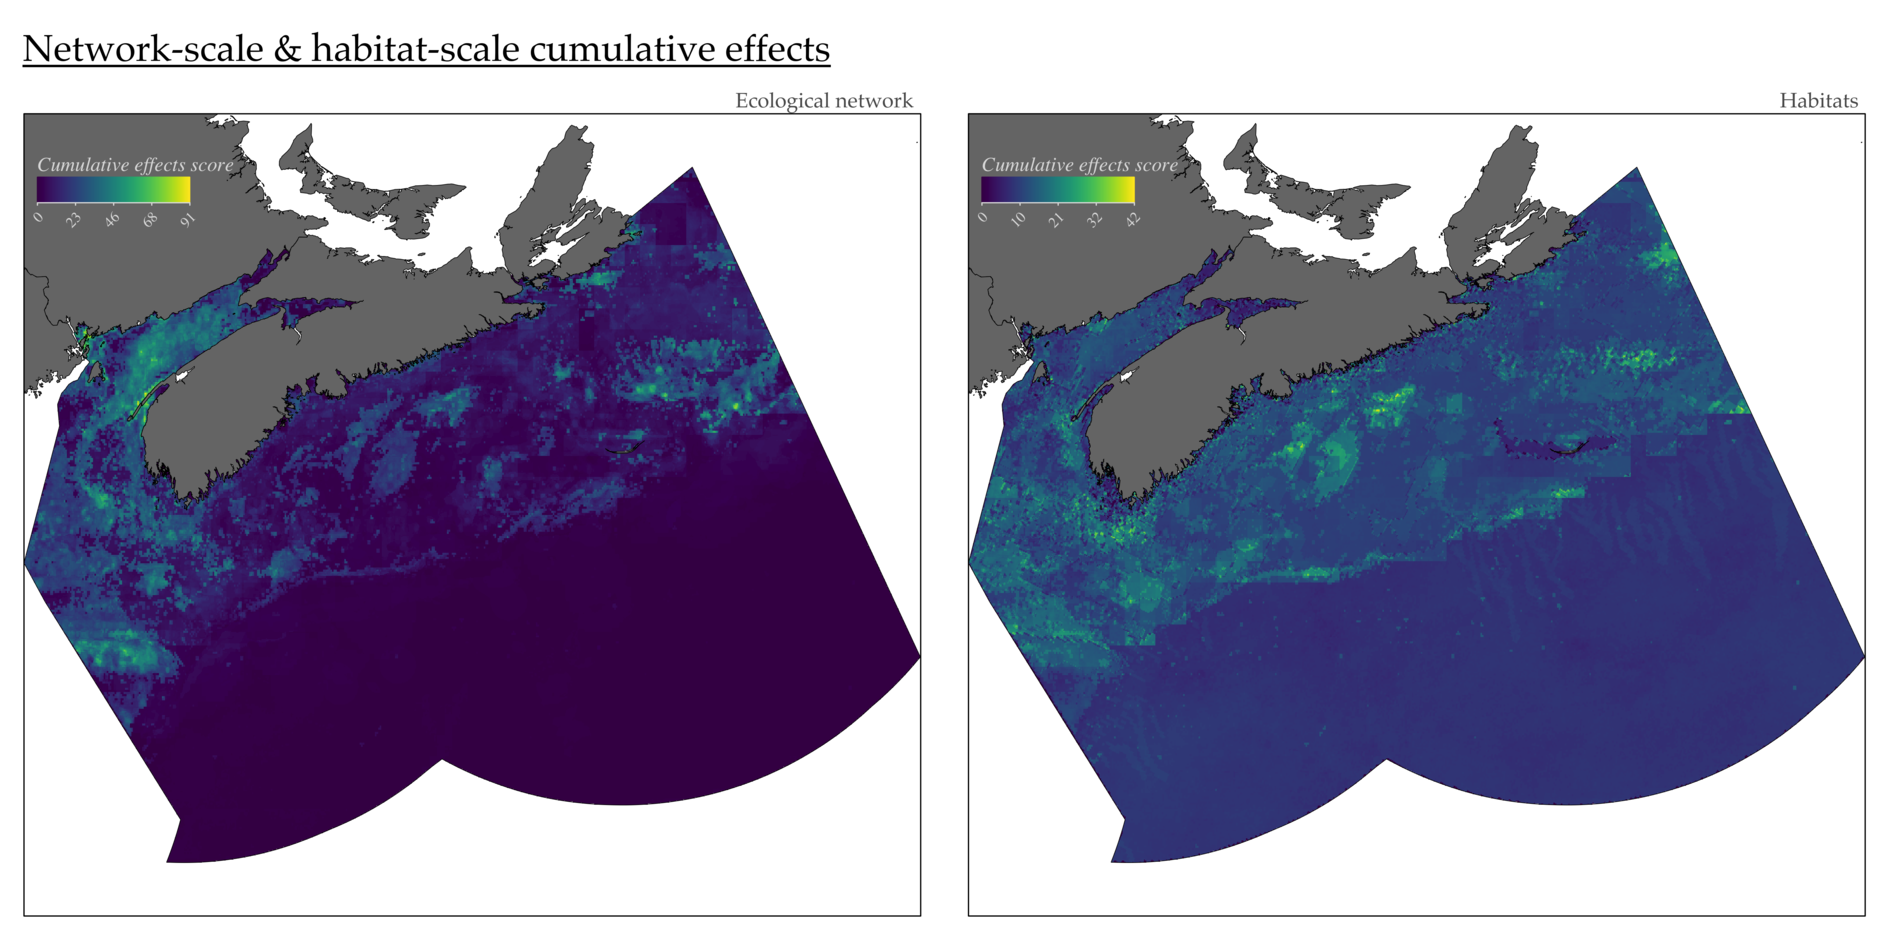
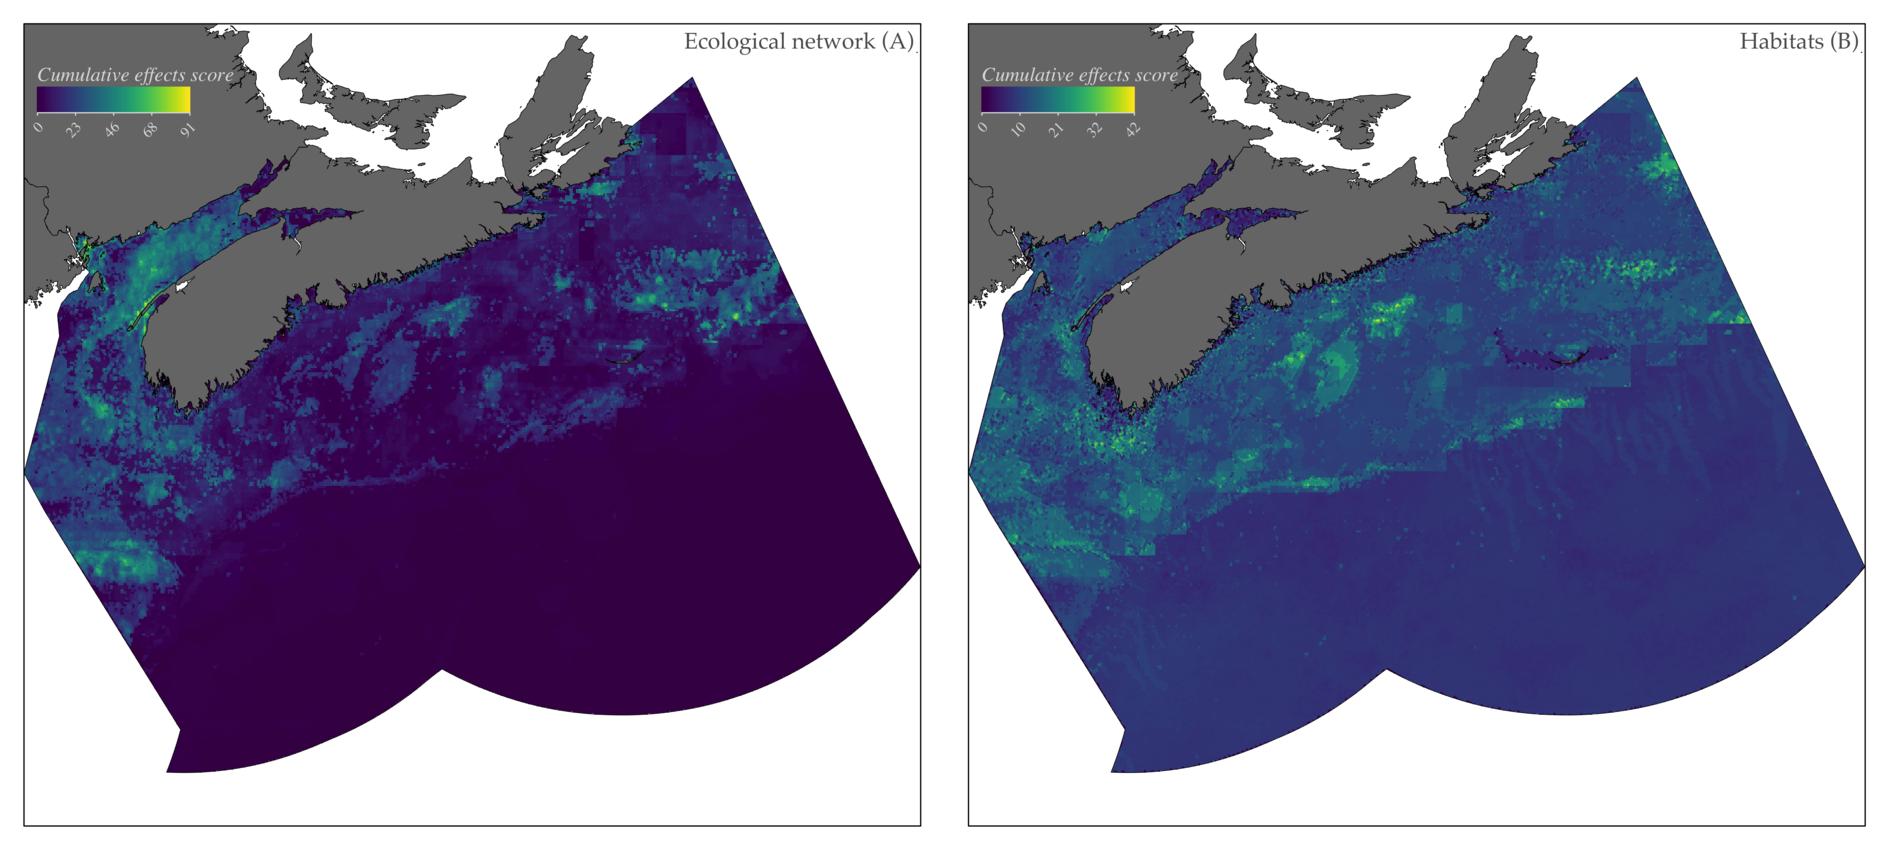
review figures and add captions in text

diff --git a/pubs/nceahab/nceahab_report.md b/pubs/nceahab/nceahab_report.md
@@ -180,7 +180,7 @@ The open-source software R 4.2.3 was used for all analyses [@rcoreteam2023] and 
 \begin{figure}[H]
 \centering
 \includegraphics{./figures/ncea_ceahab.png}
-\caption{Network-scale cumulative effects assessment of 17 stressors on 205 species in the Scotian Shelf Bioregion explicitly considering the underlying structure of the ecological community (\textbf{left-hand}). Habitats-scale cumulative effects assessment of 17 stressors on 21 marine habitats of the Scotian Shelf Bioregion (\textbf{right-hand}).}
+\caption{\textbf{Network-scale and habitat-scale cumulative effects assessments.} Network-scale cumulative effects assessment of 17 stressors on 205 species in the Scotian Shelf Bioregion in eastern Canada explicitly considering the underlying structure of the ecological community (\textbf{A}). Habitats-scale cumulative effects assessment of 17 stressors on 21 marine habitats of the Scotian Shelf Bioregion in eastern Canada (\textbf{B}).}
 \label{ncea_ceahab}
 \end{figure}
 \newpage
@@ -191,7 +191,7 @@ The open-source software R 4.2.3 was used for all analyses [@rcoreteam2023] and 
 \begin{figure}[H]
 \centering
 \includegraphics{./figures/nceahab_species.png}
-\caption{}
+\caption{\textbf{Joint cumulative effects assessment.} Joint cumulative effects assessment of 17 stressors and on 205 species of the Scotian Shelf Bioregion in eastern Canada (\textbf{A}) taking into consideration direct effects of stressors (\textbf{B}), indirect effects propagating through species interactions (\textbf{C}), and indirect effects arising through cumulative effects to the babitats used by species (\textbf{D}).}
 \label{joint}
 \end{figure}
 \newpage
@@ -202,7 +202,7 @@ The open-source software R 4.2.3 was used for all analyses [@rcoreteam2023] and 
 \begin{figure}[H]
 \centering
 \includegraphics{./figures/nceahab.png}
-\caption{\textbf{À écrire}}
+\caption{\textbf{Ecosystem-scale cumulative effects assessment.} Ecosystem-scale assessment of cumulative effects of 17 stressors on 21 marine habitats and 205 species of the Scotian Shelf Bioregion in eastern Canada using untransformed cumulative effects scores (\textbf{A}) and scores normalized by the number of habitats and species, respectively (\textbf{B}).}
 \label{ecosystem}
 \end{figure}
 \newpage
@@ -212,7 +212,7 @@ The open-source software R 4.2.3 was used for all analyses [@rcoreteam2023] and 
 \begin{figure}[H]
 \centering
 \includegraphics{./figures/metanetwork.png}
-\caption{Multiplex network presenting the presence of an effect of individual stressors on each species and each habitat (colored links), indirect effects arising from ecological interactions (grey links), the indirect effects arising from habitat use (blue links), the indirect effects the overall cumulative effect on each species and habitats (species and habitat point sizes) and the mean effect of stressors (stressor point sizes).}
+\caption{Multiplex network presenting the presence of an effect of individual stressors on each species and each habitat (colored links), indirect effects arising from ecological interactions (grey links), the indirect effects arising from species habitat use (blue links), the overall cumulative effect on each species and habitats (species and habitat point sizes) and the mean effect of stressors (stressor point sizes).}
 \label{metaweb}
 \end{figure}
 \newpage
@@ -222,18 +222,11 @@ The open-source software R 4.2.3 was used for all analyses [@rcoreteam2023] and 
 \begin{figure}[H]
 \centering
 \includegraphics{./figures/contribution_nceahab-2016_2021.png}
-\caption{\textbf{À écrire}}
+\caption{
+   \textbf{Contribution to ecosystem-scale cumulative effects} Mean contribution of 17 stressors to the cumulative effects ($C / km^2$) of 205 species and 21 marine habitats of the Scotian Shelf Bioregion in eastern Canada. Taxonomic groups for invertebrates and vertebrates are grouped at the phylum and classes levels, respectively, for ease of representation and interpretation. The mean contribution for each species and habitat was used to evaluate each stressor's contribution to overall cumulative effects. For habitats, only direct effects of stressors are presented. For species, effects are divided into direct and indirect effects. Direct effects are those attributable to the effect of a stressor on a focal species, while indirect effects are the mean effects of stressors spreading through all 3-species interactions a taxon is involved in, and the mean effect to habitats used by the focal species. The total contribution of each driver to cumulative effect is the sum of their direct and indirect contributions to cumulative effects.}
 \label{contribution}
 \end{figure}
 \newpage
-
-
-
-
-**Figure 3. Comparison of network-scale and species-scale cumulative effects for individual species.** Scatterplot of the mean network-scale cumulative effects as a function of the species-scale cumulative effect over a species distribution ($C / km^2$) for all 193 species considered. The size of the point is the degree of each species, *i.e* the number of interactions in which they are involved in the metaweb. The orange line represents the direct effects baseline, meaning that results from the network-scale assessment cannot fall below that line. Species along the orange line are those for which the network-scale and species-scale assessments are equal; that is species with no predicted interaction. The grey line is the 1:1 relative identity line (*i.e* from 0 to the maximum scores of the species-scale and network-scale assessments). Values above or below that line identify species for which the network-scale assessment is relatively greater or lower than the species-scale assessment, respectively. The yellow line represents the direct effects baseline, *i.e.* the minimum scores predicted when only direct effects are considered. Species with no predicted interactions in the metaweb follow that line. 
-
-**Figure 4. Contribution of stressors and species to indirect effects in the network-scale cumulative effects assessment.** The upper half of the figure illustrates the mean contribution of climate (*n = 6*), coastal (*n = 5*), fisheries (*n = 5*), and marine traffic (*n = 2*) stressors to the regional cumulative effects assessment ($C / km^2$) on invertebrates grouped at the phyla taxonomic level (Arthropoda: *n = 30*; Cnidaria: *n = 20*; Echinodermata: *n = 21*; Mollusca: *n = 19*) and vertebrates grouped at the class taxonomic level (Actinopterygii: *n = 62*; Mammalia: *n = 24*). The contribution can be divided into the direct and indirect contributions of stressors to the cumulative effects of each taxonomic group. Direct effects are those attributable to the effect of stressors on a focal species, while indirect effects are the effects of stressors spreading through species interactions. The size of the point is proportional to the relative contribution of stressor groups to a taxonomic group. The grey gradient of boxes surrounding stressor points is proportional to the combined contribution of all stressors to direct or indirect effects, with low or high contributions presented as pale or dark grey, respectively. The lower half of the figure illustrates the mean contribution of taxonomic groups to the propagation of indirect effects to taxonomic groups. As with the stressors, the size of the points represents the relative contribution of taxonomic groups to indirect effects, and the grey gradient of boxes that of the combined contributions of invertebrates or vertebrates to indirect effects.
-
 
 
 
